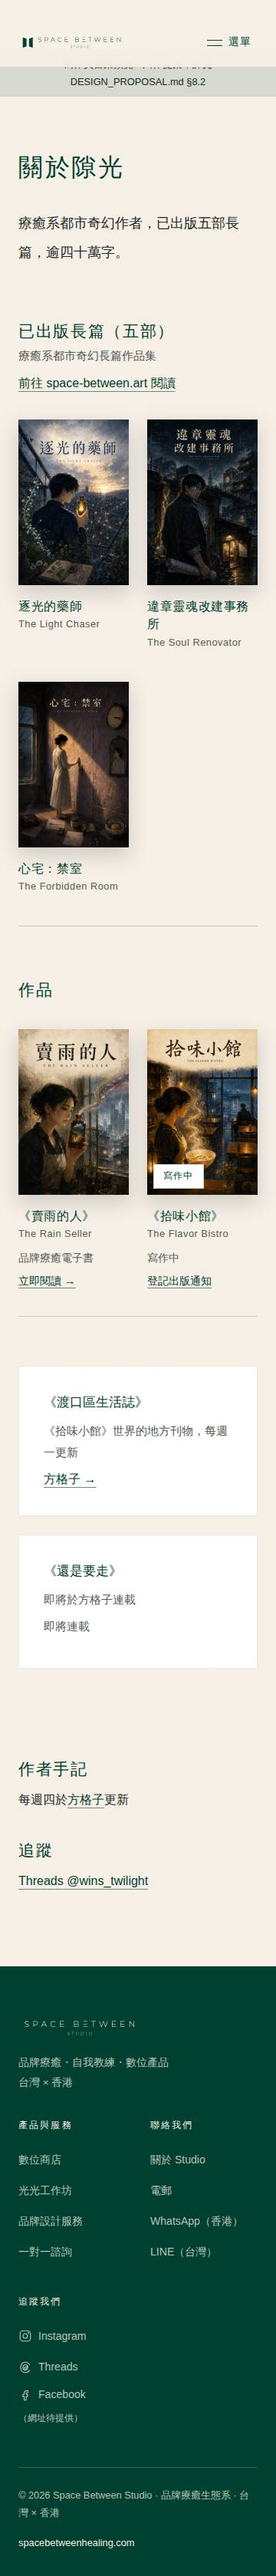
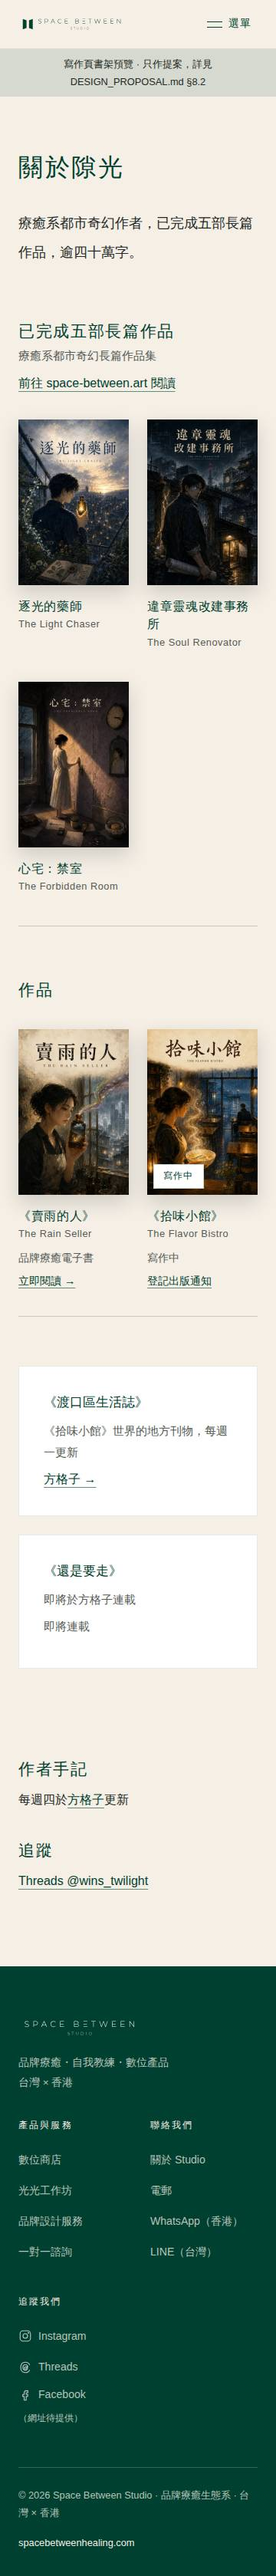
改為「已完成五部長篇作品」；JSON-LD 加 bookFormat EBook；selection 換《慢慢》新封面、標籤移出封面、emoji 改單線 SVG
- writing/index.html、llms.txt、preview/writing-v2.html：「已出版五部長篇」
  「已出版長篇（五部）」改為「已完成五部長篇作品」
- JSON-LD：完成的書 bookFormat 設為 https://schema.org/EBook（index、writing、
  書架預覽）；Draft（拾味小館、還是要走）不加
- selection.html：《慢慢成為自己的品牌》用 assets/covers 新封面完整顯示；
  產品標籤移到卡片文字區；📱🔐💬🎁 改為 inline 單線 SVG（1.5px、Rainforest）
- DESIGN_PROPOSAL.md：§6、§7、§8 更新，新增 §9 其他頁面 emoji icon 清單

Claude-Session: https://claude.ai/code/session_012DA8veCG83w1Zocv5XQUeZ

diff --git a/selection.html b/selection.html
@@ -284,6 +284,13 @@
             letter-spacing: 1px;
             border-radius: 4px; box-shadow: inset 0 0 0 1px var(--color-button-ring)}
         
+        /* 標籤放在卡片文字區，唔遮封面書名 */
+        .product-info .product-badge {
+            position: static;
+            display: inline-block;
+            margin-bottom: var(--space-sm);
+        }
+        
         .product-info {
             padding: 30px;
         }
@@ -431,9 +438,29 @@
             padding: 30px;
         }
         
+        /* 單線 icon：1.5px、Rainforest、28px（inline SVG） */
         .feature-icon {
-            font-size: 32px;
+            display: flex;
+            justify-content: center;
             margin-bottom: 20px;
+            color: var(--color-rainforest);
+        }
+        
+        .line-icon {
+            width: 28px;
+            height: 28px;
+            flex-shrink: 0;
+        }
+        
+        .line-icon path, .line-icon rect, .line-icon circle, .line-icon polyline, .line-icon line {
+            vector-effect: non-scaling-stroke;
+        }
+        
+        .line-icon--inline {
+            width: 24px;
+            height: 24px;
+            vertical-align: -6px;
+            margin-right: var(--space-2xs);
         }
         
         .feature-item h3 {
@@ -681,9 +708,9 @@
                          sizes="(max-width: 768px) 100vw, 380px"
                          width="800" height="1200" decoding="async"
                          alt="小說《賣雨的人》封面：女子手持裝著一場雨的玻璃瓶，窗外是雨中城市">
-                    <span class="product-badge">互動式電子書</span>
                 </div>
                 <div class="product-info">
+                    <span class="product-badge">互動式電子書</span>
                     <p class="product-category">Digital Novel</p>
                     <h3 class="product-title">賣雨的人</h3>
                     <p class="product-subtitle">The Rain Seller</p>
@@ -709,10 +736,14 @@
             <!-- Product 2: 慢慢成為自己的品牌 -->
             <div class="product-card">
                 <div class="product-image">
-                    <img src="images/manman-cover.jpg" alt="慢慢成為自己的品牌">
-                    <span class="product-badge">可填寫工作手冊</span>
+                    <img class="book-cover" src="assets/covers/man-man-cheng-wei-zi-ji-de-pin-pai-800.webp"
+                         srcset="assets/covers/man-man-cheng-wei-zi-ji-de-pin-pai-400.webp 400w, assets/covers/man-man-cheng-wei-zi-ji-de-pin-pai-800.webp 800w"
+                         sizes="(max-width: 768px) 100vw, 380px"
+                         width="800" height="1200" decoding="async"
+                         alt="《慢慢成為自己的品牌》封面：以金繼手法修補一只陶罐，裂縫化為金線">
                 </div>
                 <div class="product-info">
+                    <span class="product-badge">可填寫工作手冊</span>
                     <p class="product-category">Brand Workbook</p>
                     <h3 class="product-title">慢慢成為自己的品牌</h3>
                     <p class="product-subtitle">Slowly Becoming Your Own Brand</p>
@@ -787,7 +818,7 @@
                     </div>
                     
                     <div class="bundle-bonus">
-                        <h4>🎁 組合專屬</h4>
+                        <h4><svg class="line-icon line-icon--inline" xmlns="http://www.w3.org/2000/svg" viewBox="0 0 24 24" fill="none" stroke="currentColor" stroke-width="1.5" stroke-linecap="round" stroke-linejoin="round" aria-hidden="true" focusable="false"><rect x="3.5" y="8.5" width="17" height="4" rx="0.5"/><path d="M5 12.5v8h14v-8"/><line x1="12" y1="8.5" x2="12" y2="20.5"/><path d="M12 8.5c-1.5-3-5-3.5-5-1.5s3 1.5 5 1.5z"/><path d="M12 8.5c1.5-3 5-3.5 5-1.5s-3 1.5-5 1.5z"/></svg>組合專屬</h4>
                         <p>購買組合即獲得「學費即訂金」代碼，詳情請查詢。</p>
                     </div>
                     
@@ -803,17 +834,17 @@
     <section class="features">
         <div class="features-grid">
             <div class="feature-item">
-                <div class="feature-icon">📱</div>
+                <div class="feature-icon"><svg class="line-icon" xmlns="http://www.w3.org/2000/svg" viewBox="0 0 24 24" fill="none" stroke="currentColor" stroke-width="1.5" stroke-linecap="round" stroke-linejoin="round" aria-hidden="true" focusable="false"><rect x="3" y="5.5" width="18" height="13" rx="1.5"/><polyline points="3.5 6.5 12 13 20.5 6.5"/></svg></div>
                 <h3>即時交付</h3>
                 <p>付款完成後，自動發送下載連結至你的信箱，隨時隨地開始閱讀。</p>
             </div>
             <div class="feature-item">
-                <div class="feature-icon">🔐</div>
+                <div class="feature-icon"><svg class="line-icon" xmlns="http://www.w3.org/2000/svg" viewBox="0 0 24 24" fill="none" stroke="currentColor" stroke-width="1.5" stroke-linecap="round" stroke-linejoin="round" aria-hidden="true" focusable="false"><rect x="5" y="10.5" width="14" height="10" rx="1.5"/><path d="M8 10.5V7.5a4 4 0 0 1 8 0v3"/><line x1="12" y1="14.5" x2="12" y2="16.5"/></svg></div>
                 <h3>安全支付</h3>
                 <p>支援 PayMe、FPS、Alipay、WeChat Pay、Visa/Master 信用卡。</p>
             </div>
             <div class="feature-item">
-                <div class="feature-icon">💬</div>
+                <div class="feature-icon"><svg class="line-icon" xmlns="http://www.w3.org/2000/svg" viewBox="0 0 24 24" fill="none" stroke="currentColor" stroke-width="1.5" stroke-linecap="round" stroke-linejoin="round" aria-hidden="true" focusable="false"><path d="M4 5.5h16a1 1 0 0 1 1 1v9a1 1 0 0 1-1 1h-9l-4.5 3.5v-3.5H4a1 1 0 0 1-1-1v-9a1 1 0 0 1 1-1z"/><line x1="7.5" y1="9.5" x2="16.5" y2="9.5"/><line x1="7.5" y1="12.5" x2="13.5" y2="12.5"/></svg></div>
                 <h3>持續支援</h3>
                 <p>購買後可加入讀者社群，與蘇牧 AI 教練對話，持續你的品牌療癒之旅。</p>
             </div>

diff --git a/preview/writing-v2.html b/preview/writing-v2.html
@@ -17,7 +17,7 @@
   <meta name="twitter:card" content="summary_large_image">
 
   <!-- 合併版 JSON-LD：以 writing/index.html 現有 @graph 為基礎，只加入 site-covers 的新欄位與新書。
-       未寫 bookFormat（待確認版本）、不寫 publisher；《拾味小館》維持 Draft。 -->
+       已完成的書 bookFormat 一律 EBook（暫時只有電子版）；寫作中的《拾味小館》《還是要走》不加；不寫 publisher。 -->
   <script type="application/ld+json">
   {
     "@context": "https://schema.org",
@@ -34,7 +34,7 @@
         "name": "隙光",
         "alternateName": "Xiguang",
         "jobTitle": "小說作者",
-        "description": "療癒系都市奇幻作者，已出版五部長篇，逾四十萬字。",
+        "description": "療癒系都市奇幻作者，已完成五部長篇作品，逾四十萬字。",
         "url": "https://spacebetweenstudio.site/writing/",
         "worksFor": {
           "@id": "https://spacebetweenstudio.site/#studio"
@@ -54,7 +54,8 @@
           "@id": "https://spacebetweenstudio.site/writing/#xiguang"
         },
         "inLanguage": "zh-Hant",
-        "image": "https://spacebetweenstudio.site/assets/covers/zhu-guang-de-yao-shi-800.webp"
+        "image": "https://spacebetweenstudio.site/assets/covers/zhu-guang-de-yao-shi-800.webp",
+        "bookFormat": "https://schema.org/EBook"
       },
       {
         "@type": "Book",
@@ -65,7 +66,8 @@
           "@id": "https://spacebetweenstudio.site/writing/#xiguang"
         },
         "inLanguage": "zh-Hant",
-        "image": "https://spacebetweenstudio.site/assets/covers/wei-zhang-ling-hun-gai-jian-shi-wu-suo-800.webp"
+        "image": "https://spacebetweenstudio.site/assets/covers/wei-zhang-ling-hun-gai-jian-shi-wu-suo-800.webp",
+        "bookFormat": "https://schema.org/EBook"
       },
       {
         "@type": "Book",
@@ -76,7 +78,8 @@
           "@id": "https://spacebetweenstudio.site/writing/#xiguang"
         },
         "inLanguage": "zh-Hant",
-        "image": "https://spacebetweenstudio.site/assets/covers/xin-zhai-jin-shi-800.webp"
+        "image": "https://spacebetweenstudio.site/assets/covers/xin-zhai-jin-shi-800.webp",
+        "bookFormat": "https://schema.org/EBook"
       },
       {
         "@type": "Book",
@@ -89,7 +92,8 @@
         "inLanguage": "zh-Hant",
         "image": "https://spacebetweenstudio.site/assets/covers/mai-yu-de-ren-800.webp",
         "description": "品牌療癒電子書",
-        "url": "https://spacebetweenstudio.site/selection.html"
+        "url": "https://spacebetweenstudio.site/selection.html",
+        "bookFormat": "https://schema.org/EBook"
       },
       {
         "@type": "Book",
@@ -530,13 +534,13 @@
   <main id="main">
     <header class="page-head">
       <h1>關於隙光</h1>
-      <p class="lede">療癒系都市奇幻作者，已出版五部長篇，逾四十萬字。</p>
+      <p class="lede">療癒系都市奇幻作者，已完成五部長篇作品，逾四十萬字。</p>
     </header>
 
     <section class="shelf-group" aria-labelledby="published-title">
       <div class="shelf-head">
         <div>
-          <h2 class="shelf-title" id="published-title">已出版長篇（五部）</h2>
+          <h2 class="shelf-title" id="published-title">已完成五部長篇作品</h2>
           <p class="shelf-desc">療癒系都市奇幻長篇作品集</p>
         </div>
         <a class="text-link" href="https://space-between.art" target="_blank" rel="noopener">前往 space-between.art 閱讀</a>

diff --git a/writing/index.html b/writing/index.html
@@ -6,7 +6,7 @@
 
   <!-- ── SEO: Primary ── -->
   <title>隙光｜寫作 | Space Between Studio</title>
-  <meta name="description" content="隙光：療癒系都市奇幻作者，已出版五部長篇，逾四十萬字。">
+  <meta name="description" content="隙光：療癒系都市奇幻作者，已完成五部長篇作品，逾四十萬字。">
   <meta name="author" content="隙光">
   <meta name="robots" content="index, follow">
   <link rel="canonical" href="https://spacebetweenstudio.site/writing/">
@@ -15,13 +15,13 @@
   <meta property="og:type" content="profile">
   <meta property="og:url" content="https://spacebetweenstudio.site/writing/">
   <meta property="og:title" content="隙光｜寫作 | Space Between Studio">
-  <meta property="og:description" content="隙光：療癒系都市奇幻作者，已出版五部長篇，逾四十萬字。">
+  <meta property="og:description" content="隙光：療癒系都市奇幻作者，已完成五部長篇作品，逾四十萬字。">
   <meta property="og:image" content="https://spacebetweenstudio.site/assets/og/sbs-og-1200x630.png">
   <meta property="og:locale" content="zh_TW">
   <meta property="og:site_name" content="Space Between Studio">
   <meta name="twitter:card" content="summary">
   <meta name="twitter:title" content="隙光｜寫作 | Space Between Studio">
-  <meta name="twitter:description" content="隙光：療癒系都市奇幻作者，已出版五部長篇，逾四十萬字。">
+  <meta name="twitter:description" content="隙光：療癒系都市奇幻作者，已完成五部長篇作品，逾四十萬字。">
 
   <!-- ── Structured Data: Person + Books ── -->
   <script type="application/ld+json">
@@ -32,7 +32,7 @@
         "@type": "Person",
         "@id": "https://spacebetweenstudio.site/writing/#xiguang",
         "name": "隙光",
-        "description": "療癒系都市奇幻作者，已出版五部長篇，逾四十萬字。",
+        "description": "療癒系都市奇幻作者，已完成五部長篇作品，逾四十萬字。",
         "url": "https://spacebetweenstudio.site/writing/",
         "sameAs": [
           "https://space-between.art",
@@ -46,7 +46,8 @@
         "description": "品牌療癒電子書",
         "author": { "@id": "https://spacebetweenstudio.site/writing/#xiguang" },
         "url": "https://spacebetweenstudio.site/selection.html",
-        "inLanguage": "zh-Hant"
+        "inLanguage": "zh-Hant",
+        "bookFormat": "https://schema.org/EBook"
       },
       {
         "@type": "Book",
@@ -270,14 +271,14 @@
   <main>
     <section class="section" aria-labelledby="about-title">
       <h1 id="about-title">關於隙光</h1>
-      <p class="lede">療癒系都市奇幻作者，已出版五部長篇，逾四十萬字。</p>
+      <p class="lede">療癒系都市奇幻作者，已完成五部長篇作品，逾四十萬字。</p>
     </section>
 
     <section class="section" aria-labelledby="works-title">
       <h2 id="works-title">作品</h2>
       <ul class="works">
         <li class="work-card">
-          <h3 class="work-title">已出版長篇（五部）</h3>
+          <h3 class="work-title">已完成五部長篇作品</h3>
           <p class="work-desc">療癒系都市奇幻長篇作品集</p>
           <a class="work-link" href="https://space-between.art" target="_blank" rel="noopener">前往 space-between.art 閱讀</a>
         </li>

diff --git a/index.html b/index.html
@@ -72,6 +72,7 @@
           "@type": "Book",
           "name": "賣雨的人",
           "description": "一個調香師的品牌覺醒之旅，互動式電子書",
+          "bookFormat": "https://schema.org/EBook",
           "offers": { "@type": "Offer", "price": "68", "priceCurrency": "HKD" }
         }
       },
@@ -82,6 +83,7 @@
           "@type": "Book",
           "name": "慢慢成為自己的品牌",
           "description": "9章療癒旅程，63個反思練習",
+          "bookFormat": "https://schema.org/EBook",
           "offers": { "@type": "Offer", "price": "168", "priceCurrency": "HKD" }
         }
       }
